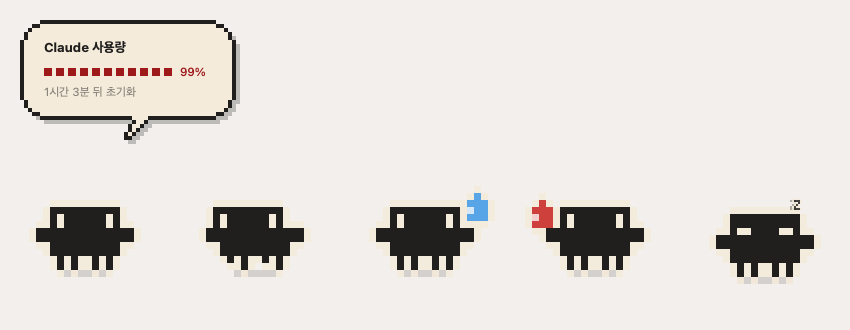
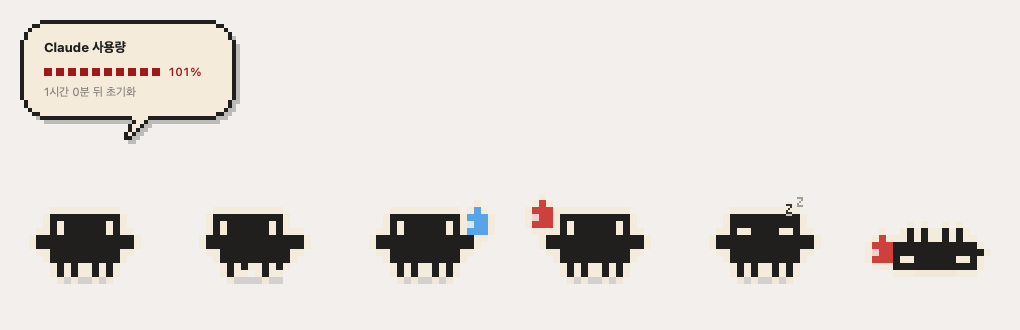
100% 를 다 쓰면 배를 뒤집고 드러눕는 상태 추가
사용률 100% 이상을 별도 상태로 두고, 다리를 위로 뻗고 눈을 감은 도안으로
바꾼다. 서 있을 때와 높이를 맞춰 바닥이 어긋나지 않게 했고, 이 동안에는
돌아다니지 않고 가쁜 숨만 쉰다. 알림 임계치에도 100 을 넣었다.

diff --git a/buddy/sprite.py b/buddy/sprite.py
@@ -34,6 +34,20 @@ _BASE = [
     "  ##########  ",
 ]
 _LEGS_STAND = ["   # #  # #   ", "   # #  # #   "]
+
+# 다 써 버렸을 때. 배를 뒤집고 다리를 위로 뻗은 채 눈을 감는다.
+# 서 있을 때와 높이를 맞춰야(9줄) 바닥이 어긋나지 않는다.
+_LYING = [
+    "              ",
+    "              ",
+    "              ",
+    "   # #  # #   ",
+    "   # #  # #   ",
+    " ############ ",
+    "##############",
+    " #oo######oo# ",
+    " ############ ",
+]
 _LEGS_A = ["   # #  # #   ", "   #    #     "]
 _LEGS_B = ["   # #  # #   ", "     #    #   "]
 
@@ -95,6 +109,9 @@ def cell_size(size: float) -> int:
 
 def frame_rows(st: MascotState) -> list[str]:
     """현재 상태에 맞는 도안 한 장을 만든다."""
+    if st.mood == "exhausted":
+        return list(_LYING)
+
     rows = list(_BASE)
 
     if st.walking:
@@ -175,7 +192,7 @@ def draw(width: float, height: float, st: MascotState) -> None:
             if ch == "o":
                 NSBezierPath.bezierPathWithRect_(rect(c, r)).fill()
 
-    if st.mood in ("worried", "panic"):
+    if st.mood in ("worried", "panic", "exhausted"):
         _draw_sweat(rect, filled, st)
     if st.mood == "sleepy":
         _draw_zzz(origin_x, origin_y, cell, grid_h, st)
@@ -223,7 +240,8 @@ def _draw_sweat(rect, body: set[tuple[int, int]], st: MascotState) -> None:
     # 도안 위쪽 여백에 두므로 팔(3~4행)과 겹칠 일이 없다.
     fall = int(st.zzz * 2)
     left = GRID_W - 1 if st.facing > 0 else -2
-    top = -2 + fall
+    # 서 있을 땐 머리 위 여백에, 누워 있을 땐 몸 옆에 붙인다
+    top = (4 if st.mood == "exhausted" else -2) + fall
 
     cells = {
         (left + c, top + r)
@@ -236,7 +254,7 @@ def _draw_sweat(rect, body: set[tuple[int, int]], st: MascotState) -> None:
     for (col, row) in _outline_cells(cells) - body:
         NSBezierPath.bezierPathWithRect_(rect(col, row)).fill()
 
-    (ALERT if st.mood == "panic" else SWEAT).setFill()
+    (ALERT if st.mood in ("panic", "exhausted") else SWEAT).setFill()
     for (col, row) in cells:
         NSBezierPath.bezierPathWithRect_(rect(col, row)).fill()
 
@@ -284,6 +302,14 @@ def _draw_zzz(origin_x: int, origin_y: int, cell: int, grid_h: int, st: MascotSt
 
 def step(st: MascotState, t: float) -> None:
     """시간 t(초)에 맞춰 애니메이션 값을 갱신한다. 전부 칸 단위로만 움직인다."""
+    if st.mood == "exhausted":
+        # 가쁜 숨만 쉰다
+        st.bob = int(t * 2.4) % 2
+        st.step_phase = 0
+        st.jitter = 0
+        st.zzz = (t * 1.3) % 1.0
+        return
+
     if st.mood == "sleepy":
         st.bob = int(t * 1.2) % 2
         st.step_phase = 0

diff --git a/buddy/app.py b/buddy/app.py
@@ -299,7 +299,8 @@ class BuddyController(NSObject):
             self.walk_state = "idle"
             self.state_until = max(self.state_until, now + 1.0)
             return
-        if not self.cfg["mascot"].get("wander", True):
+        # 다 써 버려 누워 있는 동안에는 움직이지 않는다
+        if not self.cfg["mascot"].get("wander", True) or self.state.mood == "exhausted":
             self.walk_state = "idle"
             return
 

diff --git a/buddy/usage.py b/buddy/usage.py
@@ -297,6 +297,8 @@ class Snapshot:
         """마스코트 표정을 정하는 단계."""
         if self.block is None or not self.block.is_active(self.generated_at):
             return "sleepy"
+        if self.percent >= 100:
+            return "exhausted"
         if self.percent >= 95:
             return "panic"
         if self.percent >= 80:

diff --git a/buddy/config.py b/buddy/config.py
@@ -21,7 +21,7 @@ DEFAULTS: dict = {
     "notify": {
         "enabled": True,
         # 블록 사용률이 이 값을 넘을 때 한 번씩 알린다.
-        "thresholds": [50, 80, 95],
+        "thresholds": [50, 80, 95, 100],
         # 새 5시간 블록이 시작되면 알린다.
         "on_block_reset": True,
     },

diff --git a/tools/render_preview.py b/tools/render_preview.py
@@ -35,6 +35,7 @@ MOODS = [
     ("worried", False),
     ("panic", False),
     ("sleepy", False),
+    ("exhausted", False),
 ]
 
 

diff --git a/README.md b/README.md
@@ -14,7 +14,8 @@
   3초 뒤 투명해지며 사라지고, 다른 모니터나 데스크탑으로 옮겨가도 닫힙니다. 꾹 누르면 고정됩니다.
   금액·토큰 수와 하루·주 단위 합계는 아래 CLI 에서 봅니다.
 - **표정이 바뀝니다**: 블록 사용률 50% 부터 바빠지고, 80% 를 넘으면 땀을 흘리고,
-  95% 를 넘으면 빨간 땀을 흘리며 덜덜 떱니다. 안 쓰는 동안엔 잠듭니다.
+  95% 를 넘으면 빨간 땀을 흘리며 덜덜 떱니다. **100% 를 채우면 배를 뒤집고 드러눕습니다.**
+  안 쓰는 동안엔 잠듭니다.
 - **알림**: 블록 사용률이 50 / 80 / 95% 를 넘을 때 한 번씩, 새 블록이 시작될 때 한 번
 - **터미널에서도**: `python -m buddy --cli`
 
@@ -100,7 +101,7 @@ Claude 사용량
   "retention_days": 30,         // 트랜스크립트 보관 기간
   "notify": {
     "enabled": true,
-    "thresholds": [50, 80, 95], // 이 퍼센트를 넘을 때 한 번씩 알림
+    "thresholds": [50, 80, 95, 100], // 이 퍼센트를 넘을 때 한 번씩 알림
     "on_block_reset": true      // 새 블록 시작을 알림
   },
   "mascot": {
